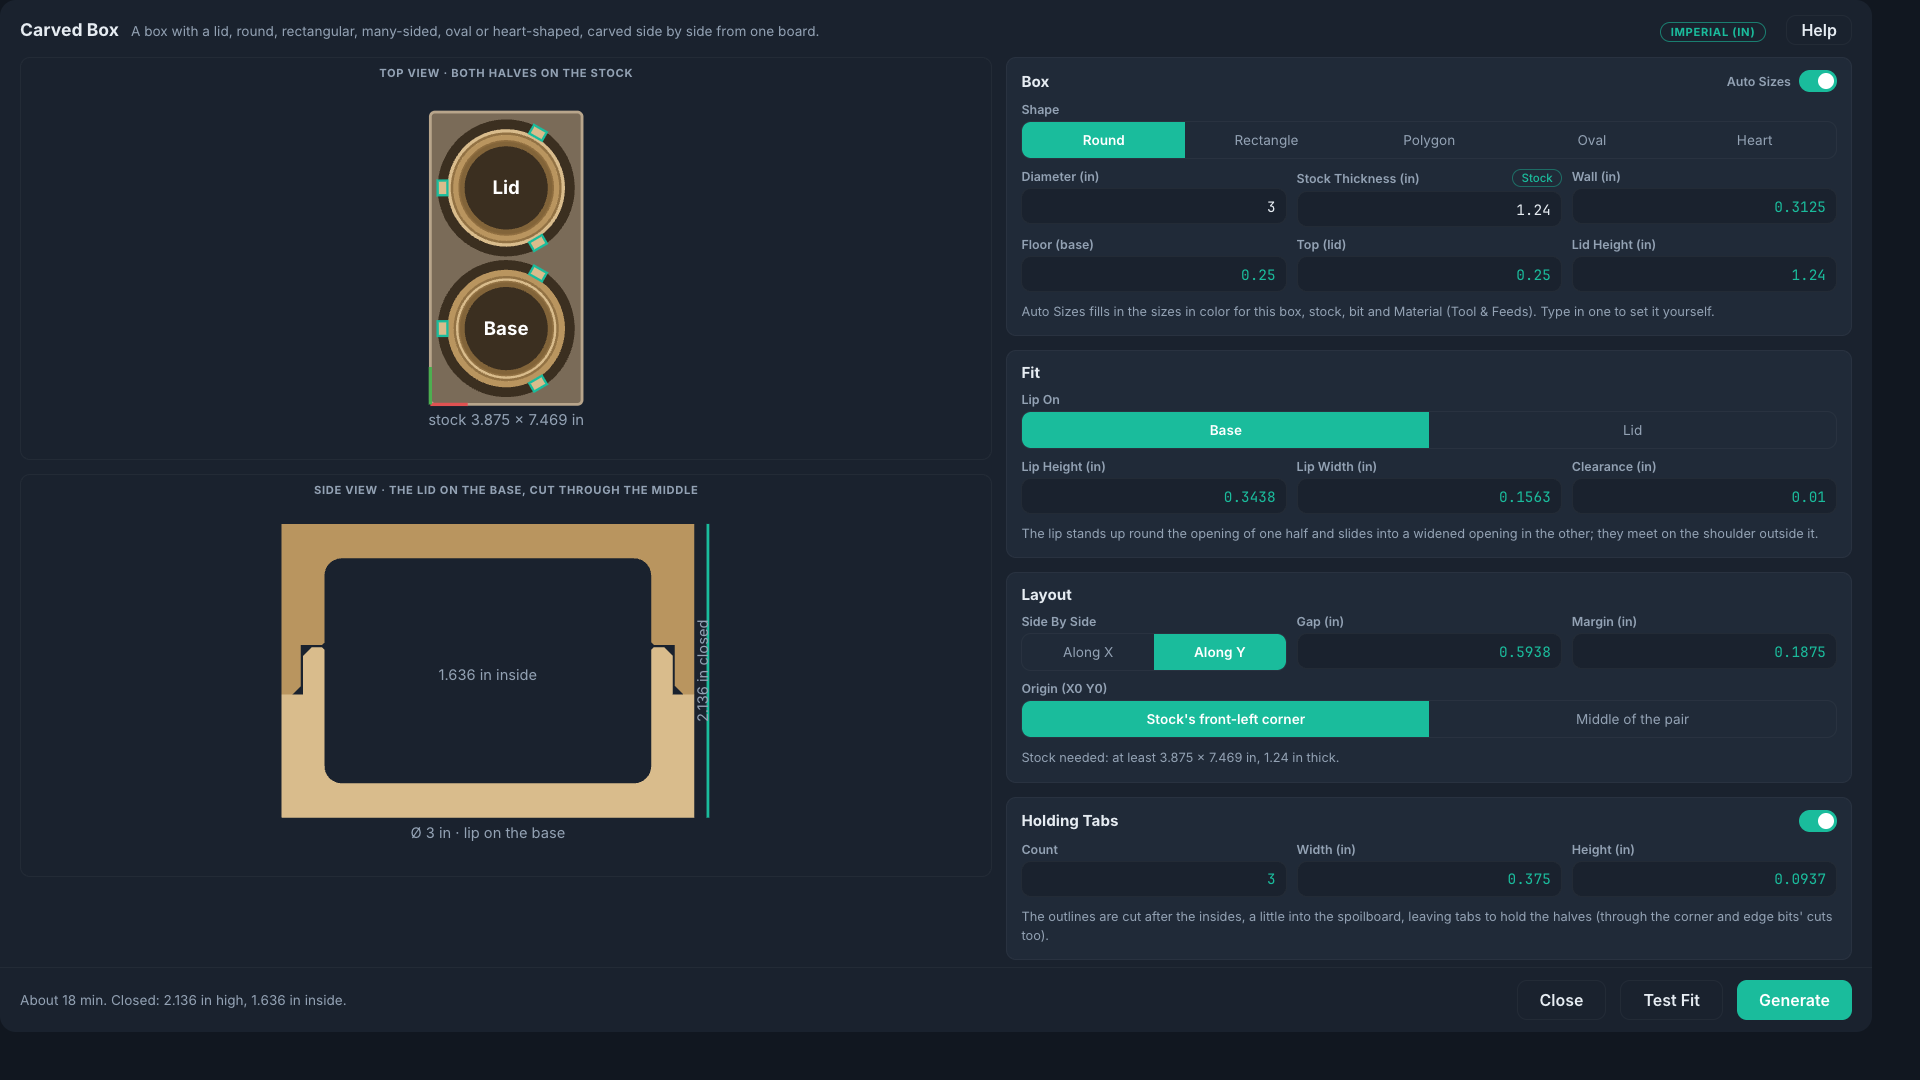
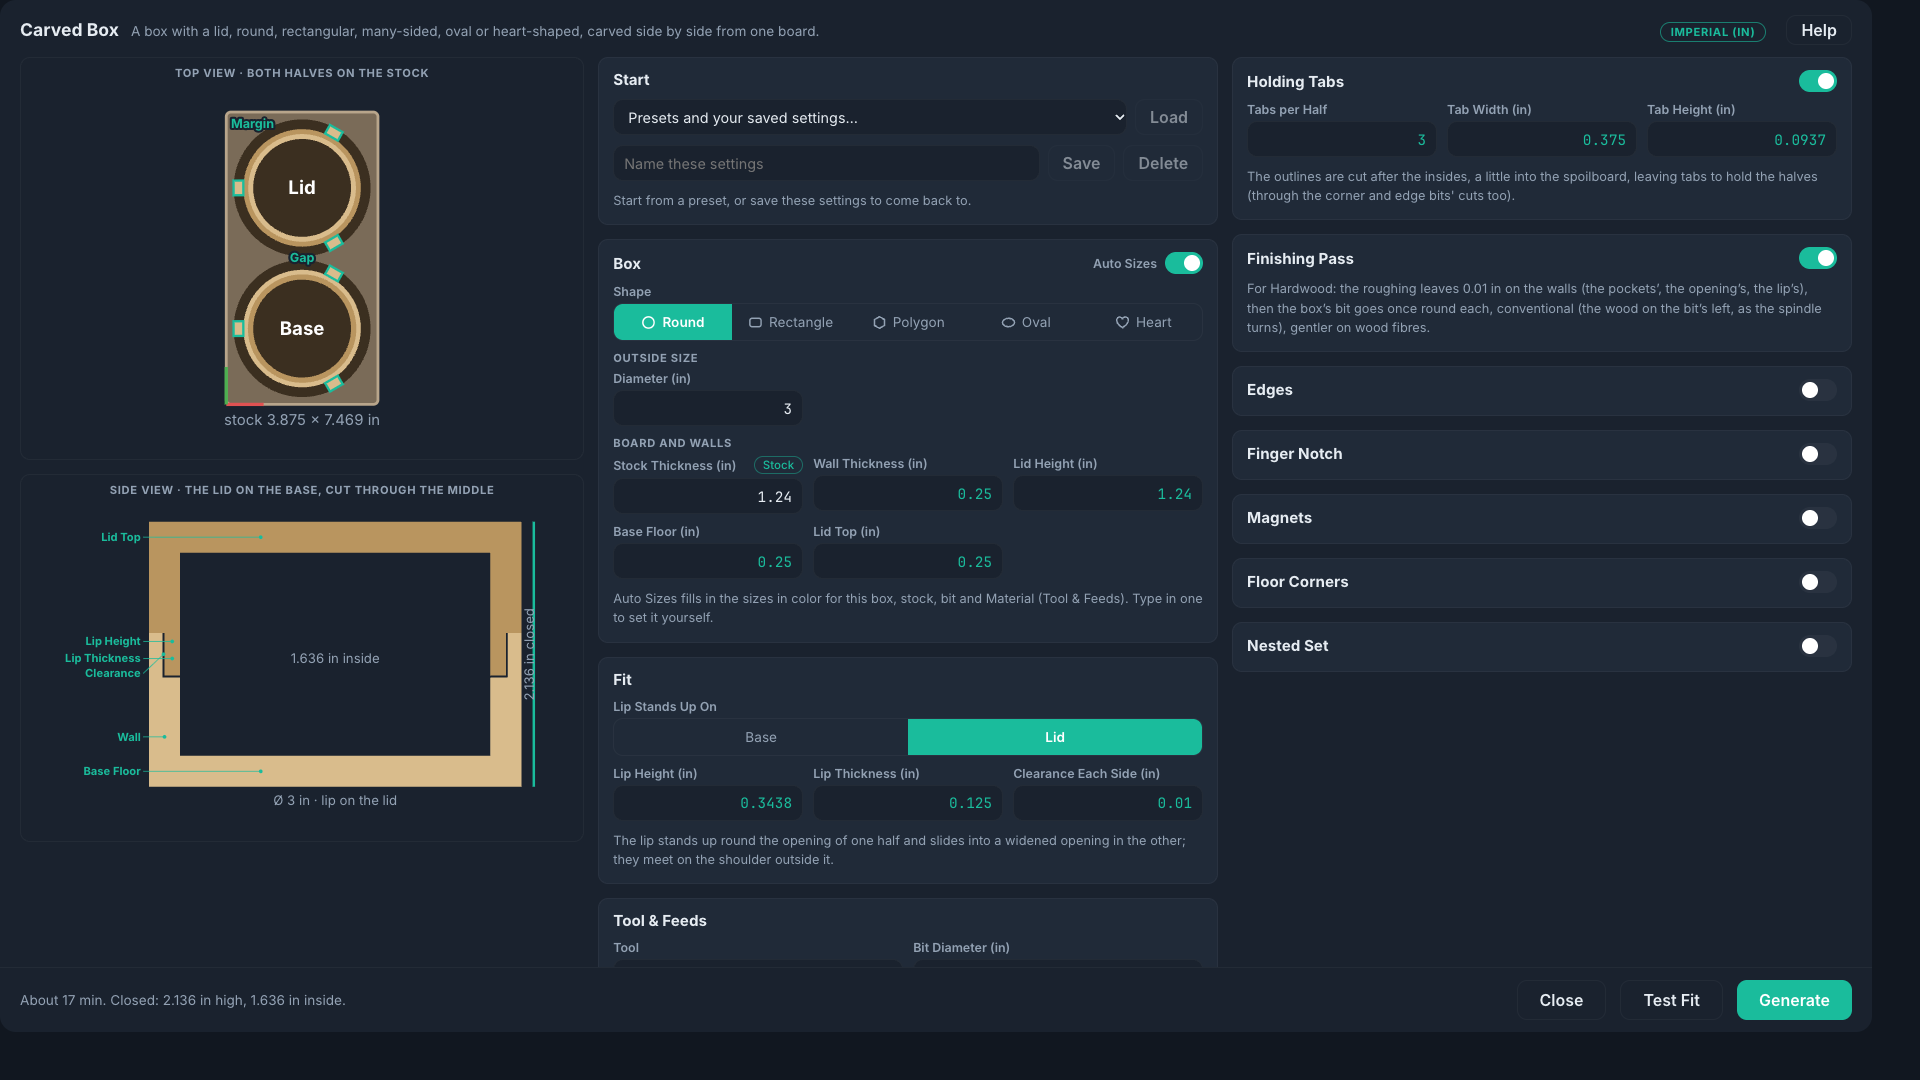
Labels on the previews that go to their fields; problems that do too
- Side view: Lid Top, Lip Height, Lip Thickness, Clearance, Wall and Base
  Floor down the left, each pointing at its part; top view: Gap and
  Margin, and each half's name goes to the box's size. A tap focuses the
  field, scrolls to it and flashes it.
- The problem under the settings goes to the field it's about when
  tapped (the name it starts with first).
- A tap in a field picks its text, to type over on a touch screen.
- Round hides Corner Radius again; presets put the lip on the base.
- A nested set without Auto Sizes lowers each box's floor, top and lip
  with it (box 2 could fail with the first box's floor and lip).
- README screenshots from the trinket preset; Help and README mention
  the labels.

Claude-Session: https://claude.ai/code/session_01Hf6iZV4QfttXF3t1Lk5qyD

diff --git a/config.html b/config.html
@@ -92,6 +92,15 @@
   .cb-label { fill: #fff; font-size: 4px; font-weight: 700; text-anchor: middle; }
   .cb-dim { fill: var(--color-text-secondary); font-size: 3.2px; text-anchor: middle; }
   .cb-dim-line { stroke: var(--color-accent); stroke-width: 0.6; fill: none; }
+  /* Labels on the previews: a tap goes to the field. */
+  .cb-tag { fill: var(--color-accent); font-size: 2.7px; font-weight: 700; cursor: pointer; paint-order: stroke; stroke: var(--color-surface); stroke-width: 0.9px; stroke-linejoin: round; }
+  .cb-tag:hover { text-decoration: underline; }
+  .cb-tag-line { stroke: var(--color-accent); stroke-width: 0.25; opacity: 0.75; fill: none; pointer-events: none; }
+  .cb-tag-dot { fill: var(--color-accent); pointer-events: none; }
+  .cb-label[data-field] { cursor: pointer; }
+  .cb-input.cb-flash { animation: cb-flash 1.4s ease-out; }
+  @keyframes cb-flash { 0%, 40% { border-color: var(--color-accent); box-shadow: 0 0 0 3px color-mix(in srgb, var(--color-accent) 45%, transparent); } 100% { box-shadow: none; } }
+  .cb-note.cb-go { cursor: pointer; text-decoration: underline dotted; }
   .cb-axis-x { stroke: #e05252; stroke-width: 0.7; }
   .cb-axis-y { stroke: #4caf50; stroke-width: 0.7; }
   .cb-tab { fill: #d9bc8c; stroke: var(--color-accent); stroke-width: 0.5; }
@@ -420,6 +429,7 @@
       <ul>
         <li>The <b>Finishing Pass</b> goes round the walls once more after the roughing, for cleaner walls; how much it takes and which way it goes are set by the <b>Material</b>.</li>
         <li>Keep the <b>Holding Tabs</b> on: they hold the halves while the outlines, corners and edges are cut.</li>
+        <li>Tap a label on the pictures (Wall, Lip Height, Clearance, Gap&hellip;) to go to its field; tap a problem under the settings to go to the field it's about.</li>
         <li>Field values take either unit and simple math: <b>1/4"</b>, <b>6.35mm</b>, <b>1-1/2 in</b>, <b>1in+4mm</b>.</li>
       </ul>
     </div>
@@ -1675,6 +1685,12 @@ function nestInputs(input, count, gap, tune) {
       if (!tune || size() === was) break;
     }
     heights();
+    // Without Auto Sizes, the floor, top and lip as much lower as the box.
+    if (!tune) {
+      var k = (next.baseHeight + next.lidHeight) / (pp.baseHeight + pp.lidHeight);
+      next.floor = cm(prev.floor * k); next.top = cm(prev.top * k); next.lipHeight = cm(prev.lipHeight * k);
+      heights();
+    }
     if (!fits || !(next.baseHeight > next.floor + 1 && next.lidHeight > next.top + 1)) break;
     list.push(next);
   }
@@ -2460,8 +2476,14 @@ if (typeof module !== 'undefined' && module.exports) {
           '" transform="translate(' + (cx + p.x * s).toFixed(2) + ' ' + (cy - p.y * s).toFixed(2) + ') rotate(' + (90 - a * 180 / Math.PI).toFixed(1) + ')"/>';
       }
       var fs = Math.min(4, Math.max(1.6, 2 * plan.halfX * s / 6));
-      out += '<text class="cb-label" style="font-size:' + fs.toFixed(2) + 'px" x="' + cx + '" y="' + (cy + fs * 0.35) + '">' + (/^box/.test(h.label) ? h.label.replace(/^box (\d+) (\w)\w*/, function (m0, n, c) { return n + c.toUpperCase(); }) : h.name === 'base' ? 'Base' : 'Lid') + '</text>';
+      out += '<text class="cb-label" data-field="' + (o.shape === 'circle' ? 'cb-diameter' : o.shape === 'poly' ? 'cb-flats' : 'cb-length') + '" style="font-size:' + fs.toFixed(2) + 'px" x="' + cx + '" y="' + (cy + fs * 0.35) + '">' + (/^box/.test(h.label) ? h.label.replace(/^box (\d+) (\w)\w*/, function (m0, n, c) { return n + c.toUpperCase(); }) : h.name === 'base' ? 'Base' : 'Lid') + '</text>';
     });
+    // The gap between a pair, and the margin: a tap goes to the field.
+    if (!plan.set && plan.halves.length === 2) {
+      var a = plan.halves[0].at, b = plan.halves[1].at;
+      out += '<text class="cb-tag" data-field="cb-gap" text-anchor="middle" x="' + X((a.x + b.x) / 2).toFixed(2) + '" y="' + (Y((a.y + b.y) / 2) + 0.9).toFixed(2) + '">Gap</text>';
+    }
+    out += '<text class="cb-tag" data-field="cb-margin" x="' + (pad + 1) + '" y="' + (pad + 3.4) + '">Margin</text>';
     // X0 Y0
     var ox = X(0), oy = Y(0);
     out += '<line class="cb-axis-x" x1="' + ox + '" y1="' + oy + '" x2="' + (ox + 8) + '" y2="' + oy + '"/><line class="cb-axis-y" x1="' + ox + '" y1="' + oy + '" x2="' + ox + '" y2="' + (oy - 8) + '"/>';
@@ -2475,12 +2497,13 @@ if (typeof module !== 'undefined' && module.exports) {
     el = el || $('cb-side');
     // A nested set: each box on the floor of the one before it.
     var boxes = set.set || [set], P0 = boxes[0], lift = 0;
-    var R0 = loopPoint(shapeLoop(P0.shape, 0), 0).x, s = 90 / (2 * R0), pad = 5, hTot = P0.closedHeight;
-    var X = function (x) { return pad + (x + R0) * s; }, Y = function (y) { return pad + (hTot - y - lift) * s; };
+    // G: a gutter on the left for the labels.
+    var R0 = loopPoint(shapeLoop(P0.shape, 0), 0).x, s = 90 / (2 * R0), pad = 5, G = 24, hTot = P0.closedHeight;
+    var X = function (x) { return pad + G + (x + R0) * s; }, Y = function (y) { return pad + (hTot - y - lift) * s; };
     var out = '';
     // Each nested box drawn a little up off the floor below it (at least
     // 1.5 px), so it doesn't run into it.
-    var w = el.getBoundingClientRect().width, px = w > 0 ? (90 + 2 * pad + 8) / w / s : 0.3;
+    var w = el.getBoundingClientRect().width, px = w > 0 ? (90 + 2 * pad + 8 + G) / w / s : 0.3;
     boxes.forEach(function (plan) {
       out += boxSection(plan);
       lift += plan.o.floor + Math.max(1.5 * px, 0.3);
@@ -2548,7 +2571,27 @@ if (typeof module !== 'undefined' && module.exports) {
       '<text class="cb-dim" x="' + (xr + 1) + '" y="' + ((Y(0) + Y(hTot)) / 2) + '" transform="rotate(-90 ' + (xr + 1) + ' ' + ((Y(0) + Y(hTot)) / 2) + ')" dy="-1">' + fmt(plan.closedHeight) + ' ' + unit() + ' closed</text>';
     if (boxes.length === 1) out += '<text class="cb-dim" x="' + X(0) + '" y="' + ((Y(o.floor) + Y(hTot - o.top)) / 2 + 2) + '">' + fmt(plan.insideHeight) + ' ' + unit() + ' inside</text>';
     out += '<text class="cb-dim" x="' + X(0) + '" y="' + (Y(0) + 4.5) + '">' + (plan.shape.kind === 'rect' ? fmt(o.length) + ' × ' + fmt(o.width) : plan.shape.kind === 'poly' ? plan.shape.n + ' sides, ' + fmt(o.flats) : o.shape === 'oval' ? 'oval ' + fmt(o.length) + ' × ' + fmt(o.width) : o.shape === 'heart' ? 'heart ' + fmt(o.length) + ' × ' + fmt(o.width) : 'Ø ' + fmt(o.diameter)) + ' ' + unit() + ' · lip on the ' + o.lipOn + '</text>';
-    el.setAttribute('viewBox', '0 0 ' + (90 + 2 * pad + 8) + ' ' + (hTot * s + 2 * pad + 6).toFixed(2));
+    // The sizes, labelled down the left, each pointing at its part of the
+    // left wall: a tap on one goes to its field.
+    var Ri = R + P0.tInside, lw = o.lipWidth, c = Math.max(o.clearance, 0.4), lipTop = P0.baseHeight, lipBot = lipTop - o.lipHeight;
+    var tags = [
+      ['cb-top-t', 'Lid Top', -R * 0.4, hTot - o.top / 2],
+      ['cb-lip-h', 'Lip Height', -(Ri + lw / 2), lipTop - o.lipHeight * 0.2],
+      ['cb-lip-w', 'Lip Thickness', -(Ri + lw / 2), lipTop - o.lipHeight * 0.6],
+      ['cb-clear', 'Clearance', -(Ri + lw + c / 2), lipBot + o.lipHeight * 0.5],
+      ['cb-wall', 'Wall', -(Ri + R) / 2, lipBot * 0.45],
+      ['cb-floor', 'Base Floor', -R * 0.4, o.floor / 2]
+    ];
+    var ty = -Infinity, tx = pad + G - 2;
+    tags.forEach(function (t) {
+      var py = Y(t[3]), y = Math.max(py + 0.9, ty + 3.6);
+      ty = y;
+      out += '<line class="cb-tag-line" x1="' + (tx + 0.6) + '" y1="' + (y - 0.9).toFixed(2) + '" x2="' + X(t[2]).toFixed(2) + '" y2="' + py.toFixed(2) + '"/>' +
+        '<circle class="cb-tag-dot" cx="' + X(t[2]).toFixed(2) + '" cy="' + py.toFixed(2) + '" r="0.45"/>' +
+        '<text class="cb-tag" data-field="' + t[0] + '" x="' + tx + '" y="' + y.toFixed(2) + '" text-anchor="end">' + t[1] + '</text>';
+    });
+    var hView = Math.max(hTot * s + 2 * pad + 6, ty + 3);
+    el.setAttribute('viewBox', '0 0 ' + (90 + 2 * pad + 8 + G) + ' ' + hView.toFixed(2));
     el.innerHTML = out;
   }
   function unit() { return state.imperial ? 'in' : 'mm'; }
@@ -2790,7 +2833,8 @@ if (typeof module !== 'undefined' && module.exports) {
     $('cb-sep-fields').hidden = !sep;
     ROOT.querySelectorAll('#cb-cut button').forEach(function (b) { b.disabled = v.nestOn; });
     nestSay(plan, v);
-    note.classList.remove('cb-bad', 'cb-warn');
+    note.classList.remove('cb-bad', 'cb-warn', 'cb-go');
+    delete note.dataset.field;
     // What the dialog knows that the plan doesn't: the tools and their speeds.
     var et0 = toolEntry(v.edgeTool), dlg = [], edgeWrong = null;
     if (v.edgesOn && et0 && v.edgeBit !== 'round' && et0.vAngle == null) edgeWrong = 'T' + et0.n + ' isn\u2019t a V-bit: pick one for chamfers, or set the Kind to Roundover';
@@ -2807,10 +2851,12 @@ if (typeof module !== 'undefined' && module.exports) {
     if (errKeys.length) {
       var f = FIELDS.filter(function (x) { return x[0] === errKeys[0]; })[0];
       note.textContent = $(f[0]).closest('.cb-field').querySelector('label').firstChild.textContent + ' ' + c.errs[errKeys[0]] + '.';
-      note.classList.add('cb-bad');
+      note.classList.add('cb-bad', 'cb-go'); note.dataset.field = f[0]; note.title = 'Go to the field';
     } else if (probs.length || tooBig) {
       note.textContent = (tooBig || probs[0]) + '.';
       note.classList.add('cb-bad');
+      var pf = !tooBig && problemField(probs[0]);
+      if (pf && !$(pf).closest('[hidden]') && !$(pf).closest('.cb-off')) { note.classList.add('cb-go'); note.dataset.field = pf; note.title = 'Go to the field'; }
     } else {
       var warns = plan.notes.slice();
       if (!(v.rpm > 0)) warns.push('Spindle RPM 0: the program won\u2019t start the spindle.');
@@ -2846,7 +2892,7 @@ if (typeof module !== 'undefined' && module.exports) {
     $('cb-size-round').hidden = v.shape !== 'circle';
     var long = v.shape === 'rect' || v.shape === 'oval' || v.shape === 'heart';
     ['cb-length', 'cb-width'].forEach(function (id) { $(id).closest('.cb-field').hidden = !long; });
-    $('cb-corner').closest('.cb-field').hidden = v.shape === 'oval';
+    $('cb-corner').closest('.cb-field').hidden = v.shape === 'oval' || v.shape === 'circle';
     // A heart's sizes: across its lobes, from its point to the top, its point's radius.
     var heartLabels = v.shape === 'heart';
     [['cb-length', 'Length (X)', 'Across the Lobes'], ['cb-width', 'Width (Y)', 'Point to Top'], ['cb-corner', 'Corner Radius', 'Point Radius']].forEach(function (l) {
@@ -2924,7 +2970,7 @@ if (typeof module !== 'undefined' && module.exports) {
   // ---------- Start: presets, and your own saved settings ----------
   // A preset sets the box and its options (Auto Sizes fills in the rest
   // for your stock, bit and material); saved settings bring back all.
-  var PRESET_BASE = { autoSizes: true, cut: 'both', grain: false, nestOn: false, tabsOn: true, finishOn: true, magOn: false, notchOn: false, edgesOn: false, cornersOn: false, lidHeight: null };
+  var PRESET_BASE = { autoSizes: true, lipOn: 'base', cut: 'both', grain: false, nestOn: false, tabsOn: true, finishOn: true, magOn: false, notchOn: false, edgesOn: false, cornersOn: false, lidHeight: null };
   var PRESETS = [
     { name: 'Ring box, round 2"', v: { shape: 'circle', diameter: 50.8, notchOn: true } },
     { name: 'Trinket box, round 3"', v: { shape: 'circle', diameter: 76.2 } },
@@ -3093,6 +3139,12 @@ if (typeof module !== 'undefined' && module.exports) {
     ['cb-tabs-on', 'cb-mag-on', 'cb-notch-on', 'cb-finish-on', 'cb-corners-on', 'cb-edges-on', 'cb-nest-on'].forEach(function (id) { $(id).addEventListener('change', function () { update(true); }); });
     $('cb-testfit').addEventListener('click', function () { generate('test'); });
     $('cb-help-btn').addEventListener('click', function () { showHelp($('cb-help').hidden); });
+    ['cb-top', 'cb-side'].forEach(function (id) {
+      $(id).addEventListener('click', function (e) { var t = e.target.closest && e.target.closest('[data-field]'); if (t) focusField(t.getAttribute('data-field')); });
+    });
+    $('cb-note').addEventListener('click', function () { var id = $('cb-note').dataset.field; if (id) focusField(id); });
+    // On a touch screen, a tap in a field picks its text, to type over.
+    ROOT.querySelectorAll('.cb-input').forEach(function (inp) { inp.addEventListener('focus', function () { setTimeout(function () { try { inp.select(); } catch (e) {} }, 0); }); });
     $('cb-preset').addEventListener('change', function () { var v = $('cb-preset').value; if (v.charAt(0) === 's') $('cb-save-name').value = state.saved[+v.slice(1)].name; startButtons(); });
     $('cb-save-name').addEventListener('input', startButtons);
     $('cb-save-name').addEventListener('keydown', function (e) { if (e.key === 'Enter') { e.preventDefault(); saveStart(); } });
@@ -3110,6 +3162,27 @@ if (typeof module !== 'undefined' && module.exports) {
     $('cb-refill').addEventListener('click', function () { fillFeeds(); update(true); });
     $('cb-generate').addEventListener('click', function () { generate('box'); });
     $('cb-close').addEventListener('click', function () { persist(); window.postMessage({ type: 'close-plugin-dialog' }, '*'); });
+  }
+
+  // Go to a field (from a label on a preview, or the note about it):
+  // in view, focused, its text picked, a flash round it.
+  function focusField(id) {
+    var inp = $(id);
+    if (!inp) return;
+    if (!$('cb-help').hidden) showHelp(false);
+    inp.scrollIntoView({ block: 'center', behavior: 'smooth' });
+    try { inp.focus({ preventScroll: true }); if (inp.select) inp.select(); } catch (e) {}
+    inp.classList.remove('cb-flash'); void inp.offsetWidth; inp.classList.add('cb-flash');
+  }
+  // The field a problem is about, from the names it uses.
+  var PROBLEM_FIELDS = [[/Lip Thickness/, 'cb-lip-w'], [/Lip Height/, 'cb-lip-h'], [/Clearance/, 'cb-clear'], [/Corner Radius|ends are too tight|Point/, 'cb-corner'],
+    [/Base Floor|floor/, 'cb-floor'], [/Lid Top/, 'cb-top-t'], [/Lid Height/, 'cb-lid-h'], [/Lid Board/, 'cb-lid-stock'], [/Gap Between|Gap/, 'cb-gap'], [/Edge Margin/, 'cb-margin'],
+    [/[Tt]abs/, 'cb-tab-n'], [/[Mm]agnet/, 'cb-mag-d'], [/[Nn]otch/, 'cb-notch-w'], [/Lead-In/, 'cb-ein'], [/Inside Rim/, 'cb-epk'], [/seam/, 'cb-eout'],
+    [/Corners:/, 'cb-cdiam'], [/Stock Thickness|stock thickness/, 'cb-stock'], [/Wall/, 'cb-wall'], [/Bit Diameter|bit/, 'cb-bit']];
+  // The name it starts with first ("Wall must be at least ... Lip Thickness"), else any it uses.
+  function problemField(p) {
+    var m = PROBLEM_FIELDS.filter(function (x) { return p.search(x[0]) === 0; })[0] || PROBLEM_FIELDS.filter(function (x) { return x[0].test(p); })[0];
+    return m ? m[1] : null;
   }
 
   // Help, in place of the settings: its pictures drawn from them.

diff --git a/README.md b/README.md
@@ -42,7 +42,7 @@ An [ncSender](https://github.com/siganberg/ncSender) plugin that carves a round,
 - **Edges:** chamfers (a V-bit, with its angle, diameter and the diameter of its flat tip, which it keeps off the edge) or roundovers (a roundover bit, with its radius and tip diameter), each sized by how far down it goes. **Outside Seam** cuts each half's rim at its outer edge: closed, the two make a groove where the halves meet. **Lead-In** cuts the lip's outer edge and the opening's edge, to ease the lid on. **Inside Rim** cuts each pocket's top edge, the one you see with the box open: the lip's inner edge, and the edge of the step the lip sits on in the other half. That one is down at the step, below the opening's wall, so the bit must clear the wall: a 60° V-bit or a small roundover fits where a 90° one usually doesn't. On the half with the lip, the seam is down at the shoulder, so the bit must clear the lip standing above it: that needs a thicker wall, a smaller seam or a narrower V-bit, and the waste round it is cleared first as far as the bit reaches. Edges go down in passes of the box's Depth of Cut. The outer top and bottom of the closed box lie on the spoilboard, so they can't be reached. The edges are cut last, after the outlines and the floor corners, with each half held by its tabs: keep the tabs on. With a tool changer set up in ncSender (a manual one too) and the edge bit picked from the Tool Library, the program changes to it (M6). Otherwise cut the box, put the edge bit in, zero Z on the stock top (keep X and Y), and run **Edges Only**.
 - **Tool & Feeds:** a bit from ncSender's Tool Library (with a tool changer, the program starts with `M6 T`) or a typed size, and starting feeds from the bit, its flutes and the material, as QuickCut's.
 
-The previews show both halves on the stock, and the closed box cut through its middle: the lip in the other half's opening, the clearance drawn a little wider to be seen, the closed and inside heights.
+The previews are labelled (Wall, Base Floor, Lid Top, Lip Height, Lip Thickness, Clearance, Gap, Margin): tap a label to go to its field, and tap a problem shown under the settings to go to the field it's about. They show both halves on the stock, and the closed box cut through its middle: the lip in the other half's opening, the clearance drawn a little wider to be seen, the closed and inside heights.
 
 
 ## What it cuts

diff --git a/CHANGELOG.md b/CHANGELOG.md
@@ -1,6 +1,10 @@
 # Changelog
 
 ## Unreleased
+- Easier to follow: Fit right after Box; the Box card in Outside size, then Board and walls; clearer names (Wall Thickness, Base Floor, Lid Top, Lip Thickness, Clearance Each Side, Gap Between, Edge Margin, Inside Rim, Tabs per Half, Magnets per Half...); shape icons on the shape buttons.
+- Labels on the previews: tap one to go to its field. A problem under the settings goes to its field when tapped. A tap in a field picks its text, to type over.
+- Each shape gets a usable size (round inches on an inch machine) when its saved one is too small or doesn't make the shape (a heart could show 0.003").
+- A nested set without Auto Sizes makes each box's floor, top and lip lower with it.
 - Auto Sizes with magnets: the lip down to 1/4" thick rather than the wall twice what the magnets need (a 6" x 4" box with 7 mm magnets: a 5/8" wall, was 0.72").
 - Finishing Pass: its allowance and direction come from the Material (conventional in wood, climb in plastics and aluminum); the card is just the switch.
 - Start: presets to begin from (ring, trinket, keepsake with magnets, hexagon, oval, heart, nested set), and your own settings saved under a name to load again.
